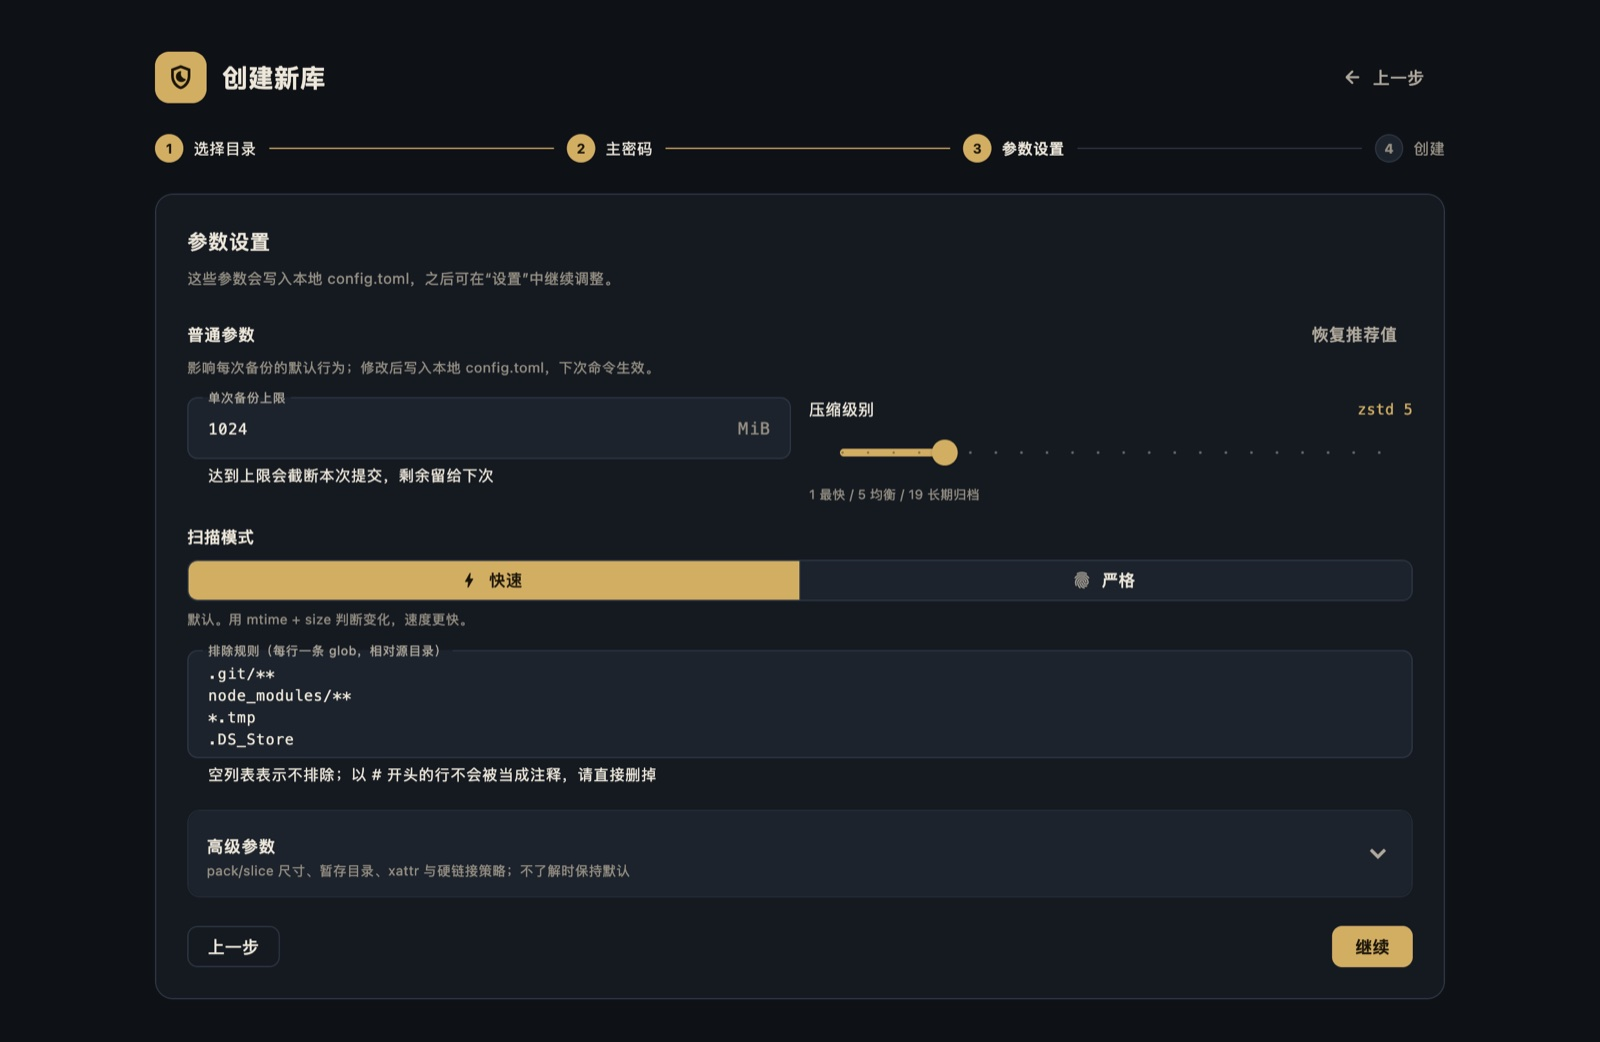
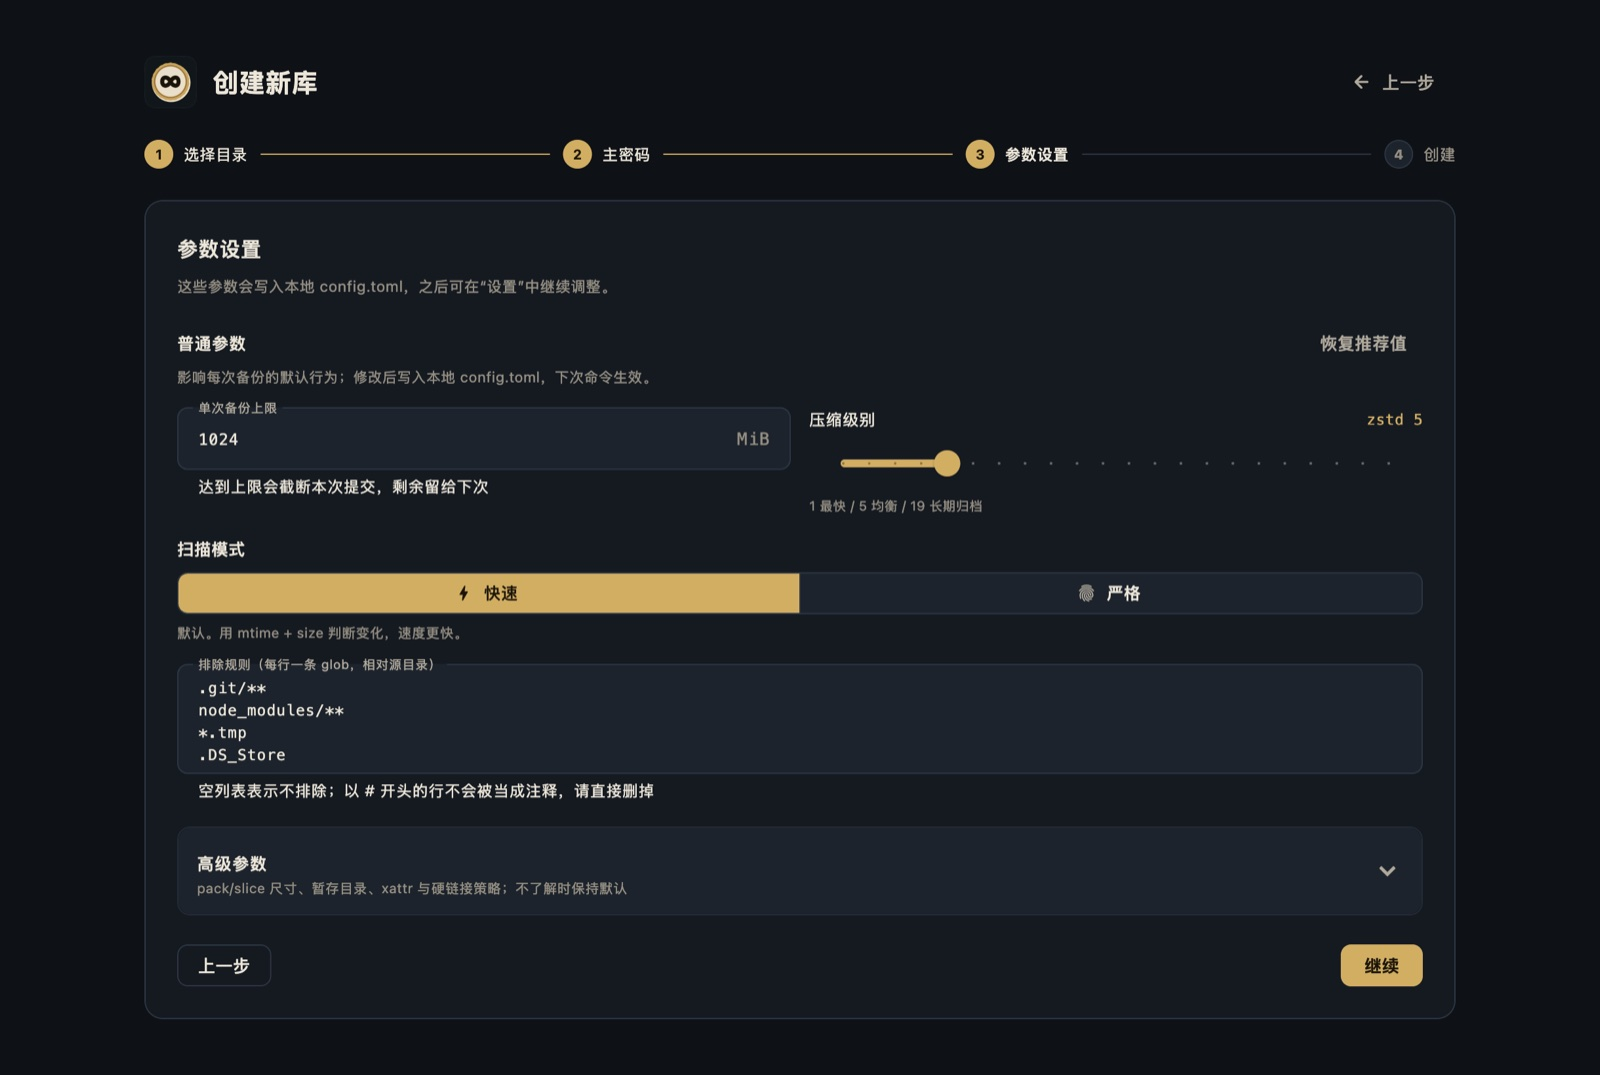
feat(ui): use the new seal mark throughout the app
- replace the old shield AppMark with a 256px cropped version of the new app icon
- remove the custom sidebar badge so onboarding, unlock, startup and shell share one mark
- declare the in-app mark as an asset and treat it as decorative for VoiceOver
- refresh all UI screenshots and record the unification in the devlog

diff --git a/lib/app/screens/main_shell.dart b/lib/app/screens/main_shell.dart
@@ -7,6 +7,7 @@ import 'package:path/path.dart' as p;
 import '../app_controller.dart';
 import '../app_info.dart';
 import '../theme.dart';
+import '../widgets/app_mark.dart';
 import '../window_title.dart';
 import 'backup_page.dart';
 import 'dashboard_page.dart';
@@ -478,19 +479,7 @@ class _Sidebar extends StatelessWidget {
             padding: const EdgeInsets.fromLTRB(18, 20, 18, 16),
             child: Row(
               children: [
-                Container(
-                  width: 34,
-                  height: 34,
-                  decoration: BoxDecoration(
-                    color: AppColors.accent,
-                    borderRadius: BorderRadius.circular(9),
-                  ),
-                  child:  Icon(
-                    Icons.shield_moon_outlined,
-                    size: 19,
-                    color: AppColors.onAccent,
-                  ),
-                ),
+                const AppMark(size: 36),
                 const SizedBox(width: 10),
                 Expanded(
                   child: Column(

diff --git a/lib/app/widgets/app_mark.dart b/lib/app/widgets/app_mark.dart
@@ -1,7 +1,9 @@
 import 'package:flutter/material.dart';
 
-import '../theme.dart';
-
+/// 应用内统一品牌标记：与 macOS/Windows 应用图标使用同一张封印图。
+///
+/// 图标总是紧邻应用名/说明文字，因此作为装饰图像处理，避免 VoiceOver
+/// 把应用名重复读两遍。
 class AppMark extends StatelessWidget {
   const AppMark({this.size = 40, super.key});
 
@@ -9,18 +11,13 @@ class AppMark extends StatelessWidget {
 
   @override
   Widget build(BuildContext context) {
-    return Container(
+    return Image.asset(
+      'assets/icon/app-mark.png',
       width: size,
       height: size,
-      decoration: BoxDecoration(
-        color: AppColors.accent,
-        borderRadius: BorderRadius.circular(size * 0.28),
-      ),
-      child: Icon(
-        Icons.shield_moon_outlined,
-        size: size * 0.55,
-        color: AppColors.onAccent,
-      ),
+      filterQuality: FilterQuality.high,
+      fit: BoxFit.contain,
+      excludeFromSemantics: true,
     );
   }
 }

diff --git a/tool/generate_icons.py b/tool/generate_icons.py
@@ -13,6 +13,8 @@ macOS:
 Windows:
   ICO 16/24/32/48  -> windows-small (transparent, ink outline)
   ICO 64/128/256   -> windows-master (transparent, full detail)
+
+Also writes assets/icon/app-mark.png (cropped 256px) for the Flutter UI.
 """
 from __future__ import annotations
 
@@ -25,6 +27,7 @@ ROOT = Path(__file__).resolve().parent.parent
 ICON_DIR = ROOT / "assets" / "icon"
 MACOS_SET = ROOT / "macos/Runner/Assets.xcassets/AppIcon.appiconset"
 WINDOWS_ICO = ROOT / "windows/runner/resources/app_icon.ico"
+APP_MARK = ICON_DIR / "app-mark.png"
 
 
 def load(name: str) -> Image.Image:
@@ -57,6 +60,15 @@ def write_macos(master: Image.Image, small: Image.Image, tiny: Image.Image) -> N
             MACOS_SET / f"app_icon_{size}.png", optimize=True
         )
     print(f"macOS icons: {len(sources)} sizes -> {MACOS_SET}")
+
+
+def write_app_mark(small: Image.Image) -> None:
+    """A tightly cropped mark for the in-app sidebar/onboarding."""
+    # Remove the transparent macOS icon-grid margin so the UI mark matches the
+    # visual size of the old square logo instead of looking 20% smaller.
+    icon = small.crop((100, 100, 924, 924)).resize((256, 256), Image.Resampling.LANCZOS)
+    icon.save(APP_MARK, optimize=True)
+    print(f"in-app mark: 256px -> {APP_MARK}")
 
 
 def write_ico(master: Image.Image, small: Image.Image) -> None:
@@ -106,6 +118,7 @@ def main() -> None:
     win_master = load("windows-master")
     win_small = load("windows-small")
     write_macos(master, small, tiny)
+    write_app_mark(small)
     write_ico(win_master, win_small)
 
     with Image.open(WINDOWS_ICO) as ico:

diff --git a/docs/devlog.md b/docs/devlog.md
@@ -5,6 +5,49 @@
 
 ---
 
+## 2026-10-22 22:35 · 界面内统一使用新图标
+
+### 目标
+
+应用图标换成“封印 + 无穷”后，界面里还残留旧盾牌标记（侧边栏、onboarding、解锁、启动页）。
+这一轮把界面内的品牌标记与应用图标统一。
+
+### 操作
+
+- 新增 `assets/icon/app-mark.png`：从 `macos-small` 裁掉 macOS 1024 图标的 100px 透明外边距，
+  缩到 256px。这样在 UI 里显示 36/40px 时视觉尺寸与旧方形 logo 一致，不会突然变小。
+- `AppMark` 从“黄铜圆角底 + `shield_moon` 图标”改为 `Image.asset` 新图标；作为装饰图像加入
+  语义树（紧邻应用名，避免 VoiceOver 重复读应用名）。
+- 侧边栏顶部移除自定义盾牌 Container，统一用 `AppMark(size: 36)`；onboarding/解锁/启动/
+  已运行页面继续用同一个 `AppMark`。
+- `assets/icon/app-mark.png` 声明到 `pubspec.yaml`，由 `tool/generate_icons.py` 自动生成。
+- 重新截图：dashboard、onboarding、onboarding 参数页、解锁、设置、备份、历史、恢复、校验
+  全部换成新标记。
+
+### 未替换的盾牌
+
+onboarding 的“安全提示”里仍保留一个 `Icons.shield_outlined`：它是语义图标，不是品牌标记，
+用来提示安全说明，不应换成应用图标。
+
+### 验证
+
+```text
+flutter analyze                 No issues found
+flutter test                    72 passed, 3 skipped
+flutter build macos --debug     成功
+flutter build macos --release   成功；bundle integrity: verified
+```
+
+新截图：[dashboard](assets/m1-dashboard.jpg)、[dashboard 浅色](assets/m1-dashboard-light.jpg)、
+[onboarding 参数](assets/m1-onboarding-params.jpg)、[解锁](assets/m1-unlock.jpg)。
+
+### 风险
+
+- Windows 任务栏/开始菜单仍建议实机确认；Flutter UI 内的 AppMark 在 Windows 上使用同一 assets PNG。
+- 若 macOS 仍显示旧 Dock 图标，是图标缓存；UI 内的 AppMark 不受影响。
+
+---
+
 ## 2026-10-22 22:30 · 应用图标重做：封印 + 无穷（不再使用字母/钥匙）
 
 ### 目标

diff --git a/README.md b/README.md
@@ -52,7 +52,7 @@
 - **层级**：系统字体负责导航/控件，Menlo 负责路径、hash、seq；桌面最小字号 10pt；控件保持 macOS 的紧凑命中区。
 - **桌面惯例**：原生菜单栏、⌘1–5/⌘⇧B/⌘⇧R/⌘L/⌘, 等快捷键、内容化窗口标题、侧边栏顶部更多菜单；
   锁定不再放在侧边栏底部。
-- **图标**：黄铜封印压在纸面上的“无穷/备份链”标记，不使用字母、钥匙或渐变。macOS 用 squircle 网格与 16/32 简化版；Windows 用透明背景 + 深色轮廓的 ICO。SVG 源文件与 1024px masters 在 `assets/icon/`，由 `tool/generate_icons.py` 生成平台资源。
+- **图标**：黄铜封印压在纸面上的“无穷/备份链”标记，不使用字母、钥匙或渐变。macOS 用 squircle 网格与 16/32 简化版；Windows 用透明背景 + 深色轮廓的 ICO。SVG 源文件与 1024px masters 在 `assets/icon/`，由 `tool/generate_icons.py` 生成平台资源。界面内的 `AppMark` 也使用同一图标（裁掉透明外边距的 256px 版本），侧边栏、onboarding、解锁与启动页不再使用旧盾牌。
 
 ## 参数模型
 

diff --git a/assets/icon/README.md b/assets/icon/README.md
@@ -13,12 +13,16 @@ No gradients, no glow, no text; three flat colors plus paper/ink tones.
 | `macos-tiny.svg/png` | macOS 16; solid seal, high-contrast infinity |
 | `windows-master.svg/png` | Windows 64–256; transparent, smooth ink outline |
 | `windows-small.svg/png` | Windows 16–48; transparent, thicker gold ring and infinity |
+| `app-mark.png` | 256px cropped macOS tile used by the in-app `AppMark` (sidebar/onboarding) |
 
 The macOS artwork uses a squircle (superellipse) on the standard 824×824
 icon grid. Windows artwork is transparent with a dark silhouette so it holds
 up on both light and dark taskbars.
 
 ## Regenerate
+
+`app-mark.png` is generated automatically from `macos-small` by
+`tool/generate_icons.py`; do not edit it by hand.
 
 The checked-in 1024px PNGs are the source of truth for asset generation:
 
